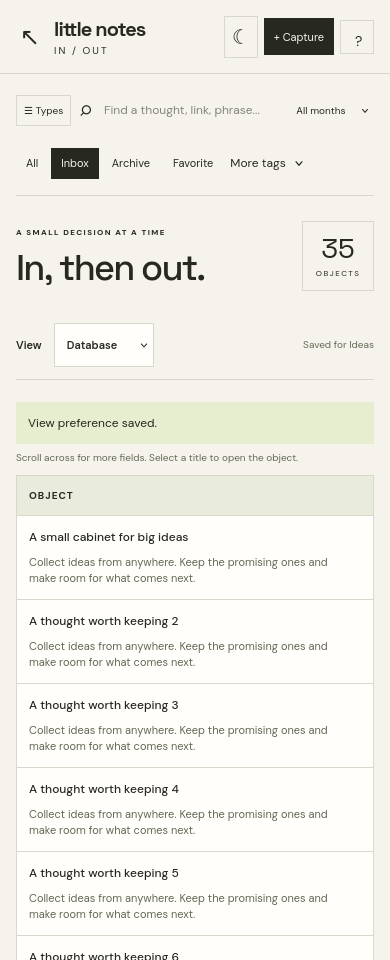
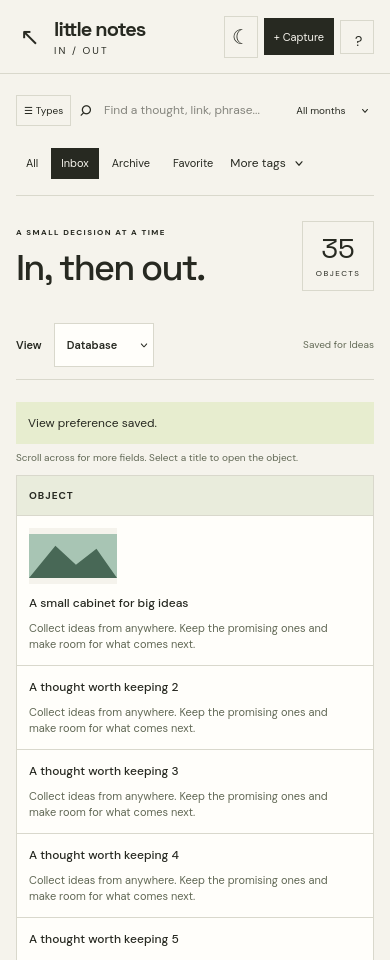
feat(little-notes): show source images with safe missing-image fallback

diff --git a/ui/src/apps/little-notes/LittleNotes.jsx b/ui/src/apps/little-notes/LittleNotes.jsx
@@ -166,7 +166,7 @@ export default function LittleNotes({ onHome }) {
             {view === "calendar" && <ObjectCalendar day={route.day} onDay={value => setRoute(old => ({ ...old, day: value }))} month={month || localDate().slice(0, 7)} items={items} choose={choose} busy={busy} onMonth={value => { setRoute(old => ({ ...old, month: value, page: 1, item: "" })); setDetailOpen(false); }} />}
             {["database", "table", "cards"].includes(view) && <ObjectList view={view} items={items} choose={choose} busy={busy} selectedId={selected?.id} types={taxonomy.types} />}
             {selected && (view === "default" || detailOpen) && <><div ref={detailRef} className={view !== "default" ? "ln-view-detail" : ""}>{view !== "default" && <button onClick={() => { setRoute(old => ({ ...old, item: "" })); setDetailOpen(false); setSelected(null); }}>Close object ×</button>}
-            <article className="ln-stage"><div className="ln-card-top"><span>{taxonomy.types.find(t => t.slug === selected.type)?.icon || icons[selected.type] || "◇"} {taxonomy.types.find(t => t.slug === selected.type)?.name || selected.type}</span><span>{selected.saved_on}</span></div><div className="ln-card-body"><p className="ln-kicker">{selected.subtitle || selected.source_name || "A thought worth keeping"}</p><h2>{selected.title}</h2>{selected.summary && <p className="ln-summary">{selected.summary}</p>}{safeUrl(selected.image_url) && <img className="ln-image" src={safeUrl(selected.image_url)} alt={selected.image_alt || ""} />}<div className="ln-card-tags">{selected.categories.map(c => <button key={c.slug} className="ln-chip-category" onClick={() => filter(setCategory, c.slug)}>{c.name}</button>)}{selected.tags.map(t => <button key={t.slug} onClick={() => filter(setTag, t.slug)}>#{t.name}</button>)}</div><details key={selected.id}><summary>Read the whole thing <span>↓</span></summary><div className="ln-markdown" dangerouslySetInnerHTML={{ __html: DOMPurify.sanitize(marked.parse(selected.body_markdown || "No note content yet.")) }} />{selected.claim_status && <p>Source claim status: {selected.claim_status}</p>}{selected.author && <p>By {selected.author}</p>}</details></div><div className="ln-card-footer">{link ? <a href={link} target="_blank" rel="noopener noreferrer">Open original ↗</a> : <span>Stored in your collection</span>}<button onClick={openEdit}>Edit note</button></div></article>
+            <article className="ln-stage"><div className="ln-card-top"><span>{taxonomy.types.find(t => t.slug === selected.type)?.icon || icons[selected.type] || "◇"} {taxonomy.types.find(t => t.slug === selected.type)?.name || selected.type}</span><span>{selected.saved_on}</span></div><div className="ln-card-body"><p className="ln-kicker">{selected.subtitle || selected.source_name || "A thought worth keeping"}</p><h2>{selected.title}</h2>{selected.summary && <p className="ln-summary">{selected.summary}</p>}{safeUrl(selected.image_url) && <img key={selected.image_url} className="ln-image" src={safeUrl(selected.image_url)} alt={selected.image_alt || ""} loading="lazy" onError={e => { e.currentTarget.style.display = "none"; }} />}<div className="ln-card-tags">{selected.categories.map(c => <button key={c.slug} className="ln-chip-category" onClick={() => filter(setCategory, c.slug)}>{c.name}</button>)}{selected.tags.map(t => <button key={t.slug} onClick={() => filter(setTag, t.slug)}>#{t.name}</button>)}</div><details key={selected.id}><summary>Read the whole thing <span>↓</span></summary><div className="ln-markdown" dangerouslySetInnerHTML={{ __html: DOMPurify.sanitize(marked.parse(selected.body_markdown || "No note content yet.")) }} />{selected.claim_status && <p>Source claim status: {selected.claim_status}</p>}{selected.author && <p>By {selected.author}</p>}</details></div><div className="ln-card-footer">{link ? <a href={link} target="_blank" rel="noopener noreferrer">Open original ↗</a> : <span>Stored in your collection</span>}<button onClick={openEdit}>Edit note</button></div></article>
             <section className="ln-decision" aria-label="Quick actions"><div><p className="ln-eyebrow">WHAT NEXT?</p><span>One category. One decision.</span></div><button disabled={busy} onClick={skip}>Skip →</button><button disabled={busy} aria-pressed={activeCategories.has("favorite")} onClick={() => toggleCategory("favorite", !activeCategories.has("favorite"))}>☆ Favorite</button><button className="ln-archive" disabled={busy} onClick={() => toggleCategory(activeCategories.has("archive") ? "inbox" : "archive")}>{activeCategories.has("archive") ? "Back to inbox ↙" : "Archive ↗"}</button><label className="ln-quick-tag"><span className="sr-only">Assign a category</span><select disabled={busy} value={quickCategory} onChange={e => { setQuickCategory(""); if (e.target.value) toggleCategory(e.target.value, !activeCategories.has(e.target.value)); }}><option value="">+ Set a category</option>{itemCategories.map(c => <option key={c.slug} value={c.slug}>{activeCategories.has(c.slug) ? "Remove " : "Add "}{c.name}</option>)}</select></label><label className="ln-quick-tag"><span className="sr-only">Assign a tag</span><select disabled={busy} value={quickTag} onChange={e => { setQuickTag(""); if (e.target.value) toggleTag(e.target.value, !activeTags.has(e.target.value)); }}><option value="">+ Set a tag</option>{taxonomy.tags.map(t => <option key={t.slug} value={t.slug}>{activeTags.has(t.slug) ? "Remove " : "Add "}#{t.name}</option>)}</select></label></section>
             </div></>}
           </>}

diff --git a/ui/src/apps/little-notes/ObjectViews.jsx b/ui/src/apps/little-notes/ObjectViews.jsx
@@ -11,9 +11,9 @@ function chips(items, prefix = "") { return items.map(i => <span key={i.slug}>{p
 function source(value) { try { const u = new URL(value); return ["http:", "https:"].includes(u.protocol) && !u.username && !u.password ? u : null; } catch { return null; } }
 export function ObjectList({ view, items, choose, selectedId, busy, types }) {
   const name = slug => types.find(t => t.slug === slug)?.name || slug;
-  if (view === "cards") return <section className="ln-view-cards" aria-label="Object cards">{items.map(i => <button className={selectedId === i.id ? "is-selected" : ""} key={i.id} onClick={() => choose(i)} disabled={busy}><span className="ln-view-card-meta">{name(i.type)}<time>{i.saved_on}</time></span>{source(i.image_url) && <img src={i.image_url} alt={i.image_alt || ""} loading="lazy" />}<h2>{i.title}</h2><p>{i.summary || i.subtitle || "Open this object to read more."}</p><div className="ln-view-chips">{chips(i.categories)}{chips(i.tags, "#")}</div><span className="ln-view-open">Open object ↗</span></button>)}</section>;
+  if (view === "cards") return <section className="ln-view-cards" aria-label="Object cards">{items.map(i => <button className={selectedId === i.id ? "is-selected" : ""} key={i.id} onClick={() => choose(i)} disabled={busy}><span className="ln-view-card-meta">{name(i.type)}<time>{i.saved_on}</time></span>{source(i.image_url) && <img src={i.image_url} alt={i.image_alt || ""} loading="lazy" onError={e => { e.currentTarget.style.display = "none"; }} />}<h2>{i.title}</h2><p>{i.summary || i.subtitle || "Open this object to read more."}</p><div className="ln-view-chips">{chips(i.categories)}{chips(i.tags, "#")}</div><span className="ln-view-open">Open object ↗</span></button>)}</section>;
   const dense = view === "database";
-  return <><p className="ln-table-hint">{dense ? "Scroll across for more fields. Select a title to open the object." : "Select a title to open the object."}</p><section className="ln-table-scroll" role="region" aria-label={dense ? "Database view, scroll horizontally for all fields" : "Light table"} tabIndex={0}><table className={dense ? "ln-database" : "ln-light-table"}><thead><tr><th>Object</th>{dense && <th>Type</th>}<th>Saved date</th><th>Categories</th>{dense && <><th>Topic tags</th><th>Source</th></>}</tr></thead><tbody>{items.map(i => <tr key={i.id} className={selectedId === i.id ? "is-selected" : ""}><td><button onClick={() => choose(i)} disabled={busy}>{i.title}<span>Open ↗</span></button>{dense && <p>{i.subtitle || i.summary}</p>}</td>{dense && <td>{name(i.type)}</td>}<td><time>{i.saved_on}</time></td><td><div className="ln-view-chips">{chips(i.categories)}</div>{!i.categories.length && <span className="ln-muted">Uncategorized</span>}</td>{dense && <><td><div className="ln-view-chips">{chips(i.tags, "#")}</div>{!i.tags.length && <span className="ln-muted">No tags</span>}</td><td>{source(i.external_url) ? <a href={source(i.external_url).href} target="_blank" rel="noopener noreferrer">{source(i.external_url).hostname} ↗</a> : <span className="ln-muted">No source link</span>}</td></>}</tr>)}</tbody></table></section></>;
+  return <><p className="ln-table-hint">{dense ? "Scroll across for more fields. Select a title to open the object." : "Select a title to open the object."}</p><section className="ln-table-scroll" role="region" aria-label={dense ? "Database view, scroll horizontally for all fields" : "Light table"} tabIndex={0}><table className={dense ? "ln-database" : "ln-light-table"}><thead><tr><th>Object</th>{dense && <th>Type</th>}<th>Saved date</th><th>Categories</th>{dense && <><th>Topic tags</th><th>Source</th></>}</tr></thead><tbody>{items.map(i => <tr key={i.id} className={selectedId === i.id ? "is-selected" : ""}><td>{dense && source(i.image_url) && <img className="ln-row-image" src={i.image_url} alt={i.image_alt || ""} loading="lazy" onError={e => { e.currentTarget.style.display = "none"; }} />}<button onClick={() => choose(i)} disabled={busy}>{i.title}<span>Open ↗</span></button>{dense && <p>{i.subtitle || i.summary}</p>}</td>{dense && <td>{name(i.type)}</td>}<td><time>{i.saved_on}</time></td><td><div className="ln-view-chips">{chips(i.categories)}</div>{!i.categories.length && <span className="ln-muted">Uncategorized</span>}</td>{dense && <><td><div className="ln-view-chips">{chips(i.tags, "#")}</div>{!i.tags.length && <span className="ln-muted">No tags</span>}</td><td>{source(i.external_url) ? <a href={source(i.external_url).href} target="_blank" rel="noopener noreferrer">{source(i.external_url).hostname} ↗</a> : <span className="ln-muted">No source link</span>}</td></>}</tr>)}</tbody></table></section></>;
 }
 const dateKey = (year, month, day) => `${year}-${String(month + 1).padStart(2, "0")}-${String(day).padStart(2, "0")}`;
 export function ObjectCalendar({ month, items, choose, busy, onMonth, day = "", onDay }) {

diff --git a/ui/src/apps/little-notes/little-notes.css b/ui/src/apps/little-notes/little-notes.css
@@ -13,3 +13,4 @@
 @media(max-width:650px){.ln-light-table{min-width:0;table-layout:fixed}.ln-light-table th:first-child{width:48%}.ln-light-table th:nth-child(2){width:26%}.ln-light-table th:last-child{width:26%}.ln-light-table td:first-child{min-width:0;max-width:none}.ln-light-table th,.ln-light-table td{padding:12px 7px;font-size:10px;overflow-wrap:anywhere}.ln-light-table th{font-size:8px;letter-spacing:.4px;white-space:normal}.ln-light-table td>button{display:block;font-size:11px;line-height:1.5}.ln-light-table td>button>span{display:block;margin-top:7px}.ln-light-table .ln-view-chips>span{font-size:8px;padding:2px 4px}}
 .ln-sidebar>.ln-manage-button{margin-top:auto;border-top:1px solid var(--line);font-size:11px;color:#626956;min-height:44px;padding:12px;justify-content:flex-start}.ln-sidebar>.ln-manage-button>span{font-size:16px}.ln-sidebar-foot{margin-bottom:28px}.ln-theme-dark .ln-sidebar>.ln-manage-button{color:#b2bda7}@media(max-width:650px){.ln-sidebar>.ln-manage-button{order:initial;margin-left:0;margin-top:0}.ln-sidebar-foot{margin-bottom:16px}}
 @media(max-width:380px){.ln-header{padding:0 10px;gap:6px}.ln-brand{font-size:18px;white-space:nowrap;letter-spacing:-.8px}.ln-header-actions>button{white-space:nowrap;padding:8px 6px}.ln-header-actions{gap:4px}.ln-header-actions>.ln-theme-toggle{min-width:30px;padding:5px}.ln-home{font-size:20px!important}}
+.ln-row-image{display:block;width:88px;height:56px;object-fit:contain;margin:0 0 10px;background:var(--paper)}.ln-view-cards img{object-fit:contain;background:var(--paper)}
